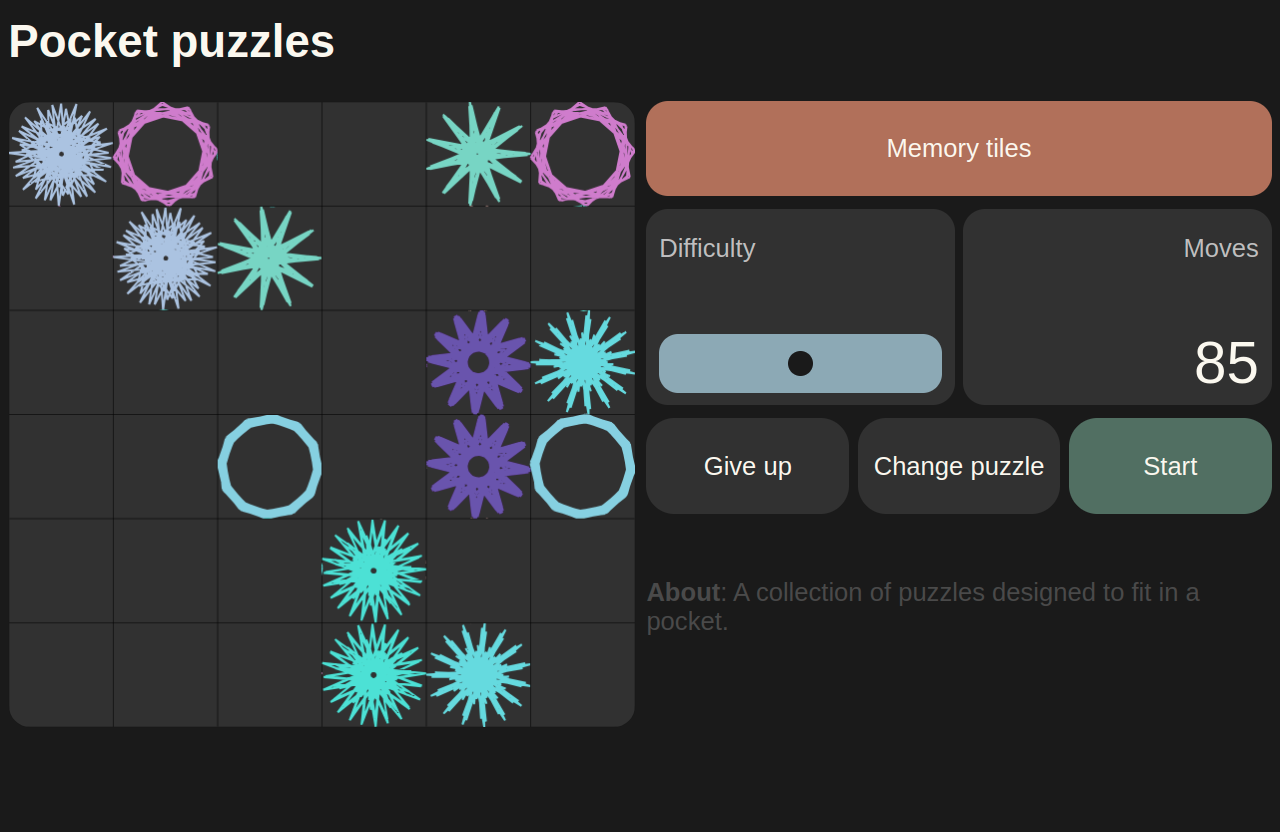
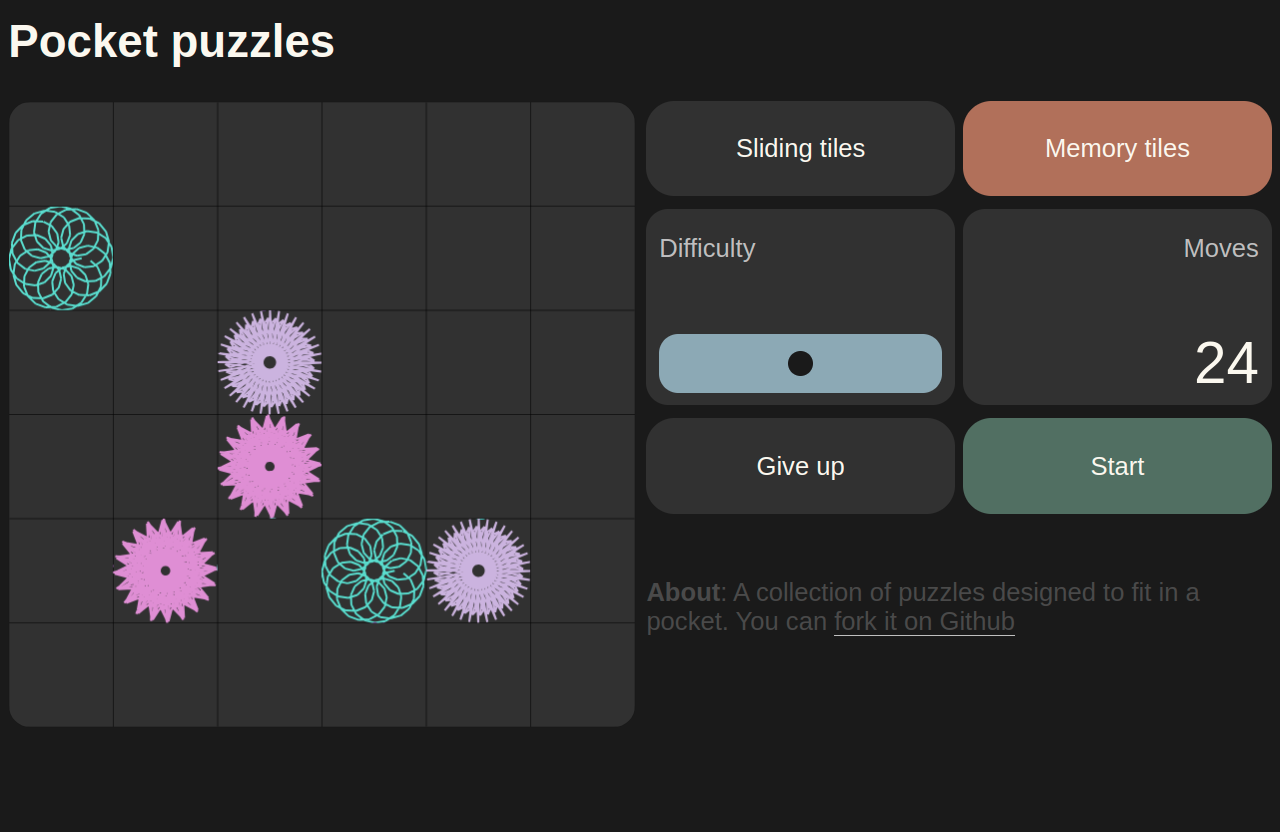
updated game selection to radio buttons

diff --git a/style.css b/style.css
@@ -60,8 +60,40 @@ button {
   background-color: #e6e5e6;
 }
 
+label:hover,
 button:hover {
   outline: 1px solid #ee977f;
+}
+
+fieldset {
+  margin: 0;
+  padding: 0;
+  width: 100%;
+  border: none;
+  display: flex;
+  flex-flow: row nowrap;
+  gap: var(--small-gap);
+  justify-content: space-between;
+}
+
+label {
+  border: none;
+  display: flex;
+  flex: 2 2 100%;
+  align-items: center;
+  justify-content: center;
+  font-size: var(--font-size-regular);
+  border-radius: var(--radius);
+  padding: var(--large-padding);
+  background-color: #e6e5e6;
+}
+
+input[type="radio"] {
+  display: none;
+}
+
+input[type="radio"]:checked+label {
+  background-color: #ee977f;
 }
 
 aside {
@@ -71,7 +103,7 @@ aside {
 }
 
 a {
-  color: inherit; 
+  color: inherit;
   text-decoration: none;
   font-size: var(--font-size-regular);
   border-bottom: 1px solid #111;
@@ -85,7 +117,7 @@ a:hover {
 #about {
   color: #4a4a4a;
   padding-top: 1em;
-  padding-bottom: 1em; 
+  padding-bottom: 1em;
   font-size: var(--font-size-regular);
 }
 
@@ -136,23 +168,6 @@ a:hover {
   border-radius: var(--radius);
   border: 1px solid rgba(1, 1, 1, 0.5);
   margin-bottom: var(--large-padding);
-}
-
-#puzzle-title-container {
-  width: 100%;
-  display: grid;
-  align-content: center;
-  justify-content: center;
-  background-color: #ee977f;
-  border-radius: var(--radius);
-}
-
-#puzzle-title {
-  margin: 0;
-  color: #111;
-  text-align: center;
-  padding: var(--large-padding);
-  font-size: var(--font-size-regular);
 }
 
 #puzzle-start {
@@ -225,43 +240,58 @@ a:hover {
 }
 
 @media (prefers-color-scheme: dark) {
+  input[type="range"]::-webkit-slider-thumb:hover {
+    background-color: #b1705a;
+  }
+
+  label:hover,
+  button:hover {
+    outline: 1px solid #b1705a;
+  }
+
+  a:hover {
+    color: #b1705a;
+    border-bottom: 1px solid #b1705a;
+  }
+
   body,
   #counter,
-  #puzzle-title,
+  label,
   button {
     color: #fbf8ef;
   }
-  
+
   button,
+  label,
   .puzzle-control,
   #puzzle-canvas {
     background-color: #313131;
   }
-  
-  #puzzle-title-container {
+
+  input[type="radio"]:checked+label {
     background-color: #b1705a;
   }
-  
+
   input[type="range"] {
     background-color: #8ca9b5;
   }
-  
+
   footer,
   #puzzle-level,
   #puzzle-counter,
   .puzzle-control {
     color: #bfbfbf;
   }
-  
+
   #puzzle-start {
     background-color: #516f62;
   }
-  
+
   body,
   input[type="range"]::-webkit-slider-thumb {
     background-color: #1a1a1a;
   }
-  
+
   a {
     border-bottom: 1px solid #bfbfbf;
   }

diff --git a/script.js b/script.js
@@ -1,13 +1,9 @@
 "use strict";
 window.onload = () => {
-  const puzzleTitles = ["Sliding tiles", "Memory tiles"];
-
   const counter = document.getElementById("counter");
   const diffSlider = document.getElementById("level");
-  const puzzleTitle = document.getElementById("puzzle-title");
   const newGameButton = document.getElementById("puzzle-start");
   const endGameButton = document.getElementById("puzzle-end");
-  const selectGameButton = document.getElementById("puzzle-select");
 
   const canvas = document.getElementById("puzzle-canvas");
   const ctx = canvas.getContext("2d", { alpha: "false" });
@@ -21,7 +17,6 @@ window.onload = () => {
   let H;
   let tileWidth;
   let tileHeight;
-  let gameIdx = 0;
   let frameIdx = 0;
   let gameMoves = 0;
   let diffValue = 0;
@@ -43,12 +38,6 @@ window.onload = () => {
   newGameButton.addEventListener("pointerdown", startGame);
   endGameButton.addEventListener("pointerdown", stopGame);
   diffSlider.addEventListener("change", startGame);
-  selectGameButton.addEventListener("pointerdown", () => {
-    gameIdx += 1;
-    if (gameIdx > 1) gameIdx = 0;
-    puzzleTitle.textContent = puzzleTitles[gameIdx];
-    startGame();
-  });
 
   canvas.addEventListener("pointerdown", mousePress);
   function mousePress(event) {
@@ -80,6 +69,7 @@ window.onload = () => {
     frameIdx = 0;
     gameMoves = 0;
     counter.textContent = `${gameMoves}`;
+    const gameIdx = Number(document.querySelector("input[name='puzzle-title']:checked").value);
     if (gameIdx === 0) {
       game = new SlidePuzzle();
     } else if (gameIdx === 1) {
@@ -91,9 +81,7 @@ window.onload = () => {
   }
 
   function stopGame() {
-    if (game && game.end()) {
-      game.draw();
-    }
+    if (game && game.end()) game.draw();
   }
 
   function drawGame() {
@@ -109,8 +97,6 @@ window.onload = () => {
     arr[j] = temp;
   }
 
-  // checks if two arrays are equal. if the second array
-  // is not passed, it checks against itself.
   function isArrEqual(arr1, arr2 = []) {
     if (!arr2.length) arr2 = [...Array(arr1.length).keys()];
     if (arr1.length !== arr2.length) return;

diff --git a/index.html b/index.html
@@ -17,9 +17,13 @@
     <main id="puzzle">
       <canvas id="puzzle-canvas"></canvas>
       <aside>
-        <div id="puzzle-title-container">
-          <p id="puzzle-title">Sliding tiles</p>
-        </div>
+        <fieldset id="puzzle-title-container">
+          <input id="sliding-tiles" type="radio" name="puzzle-title" value="0" checked />
+          <label for="sliding-tiles">Sliding tiles</label>
+
+          <input id="memory-tiles" type="radio" name="puzzle-title" value="1" />
+          <label for="memory-tiles">Memory tiles</label>
+        </fieldset>
         <div id="puzzle-control-misc" class="puzzle-controls-container">
           <div id="level-container" class="puzzle-control">
             <p id="puzzle-level">Difficulty</p>
@@ -32,7 +36,6 @@
         </div>
         <div id="puzzle-control-buttons" class="puzzle-controls-container">
           <button id="puzzle-end">Give up</button>
-          <button id="puzzle-select">Change puzzle</button>
           <button id="puzzle-start">Start</button>
         </div>
         <p id="about"><b>About</b>:
